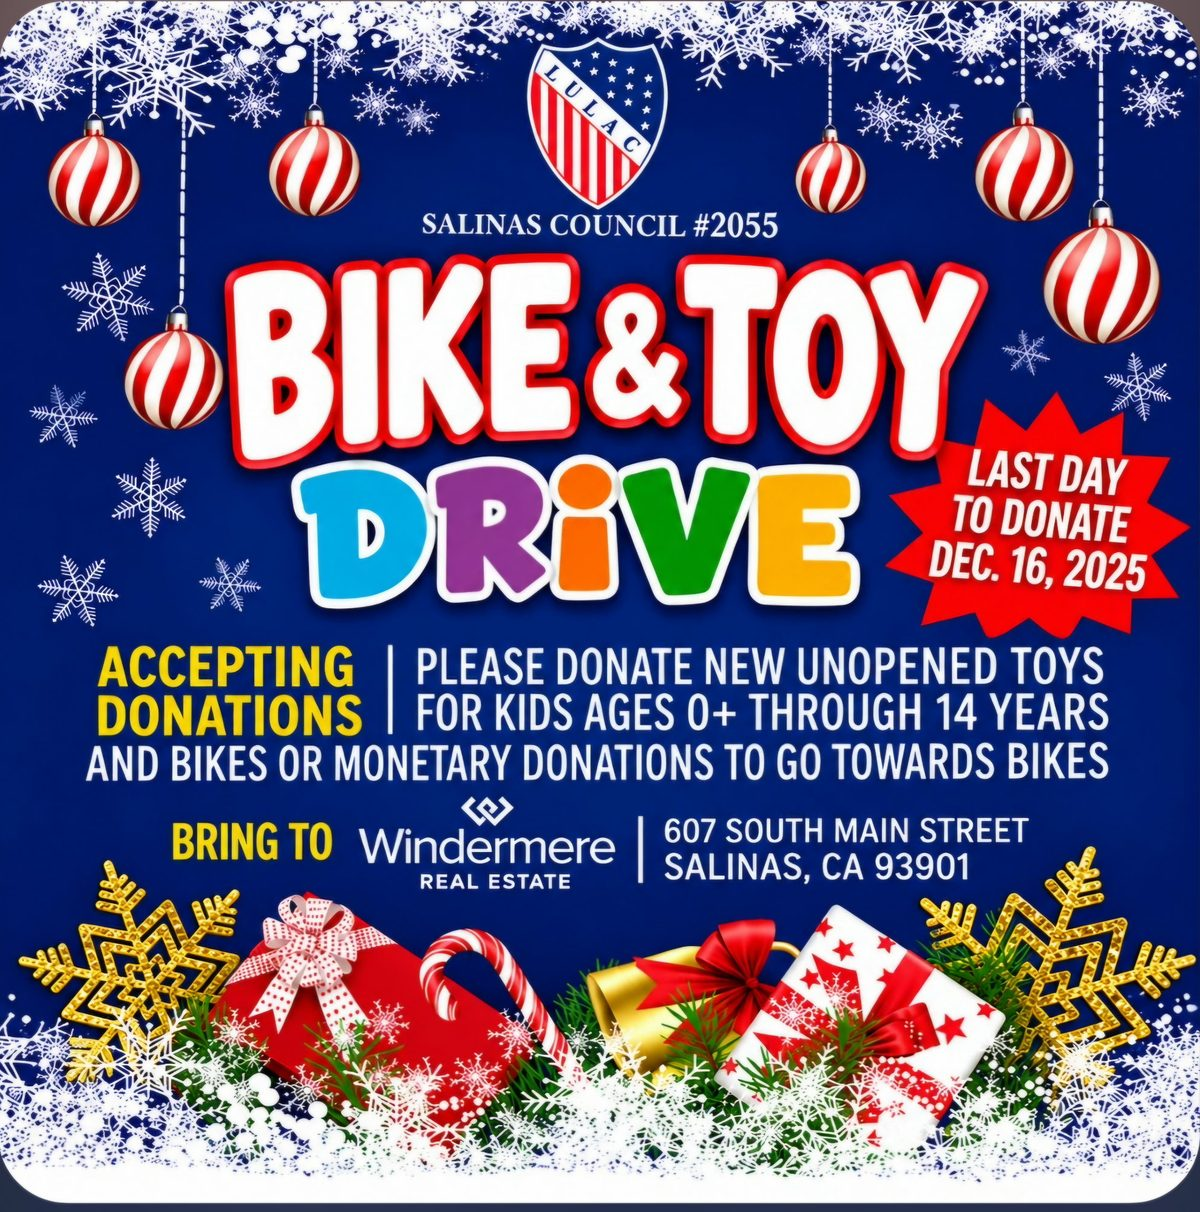
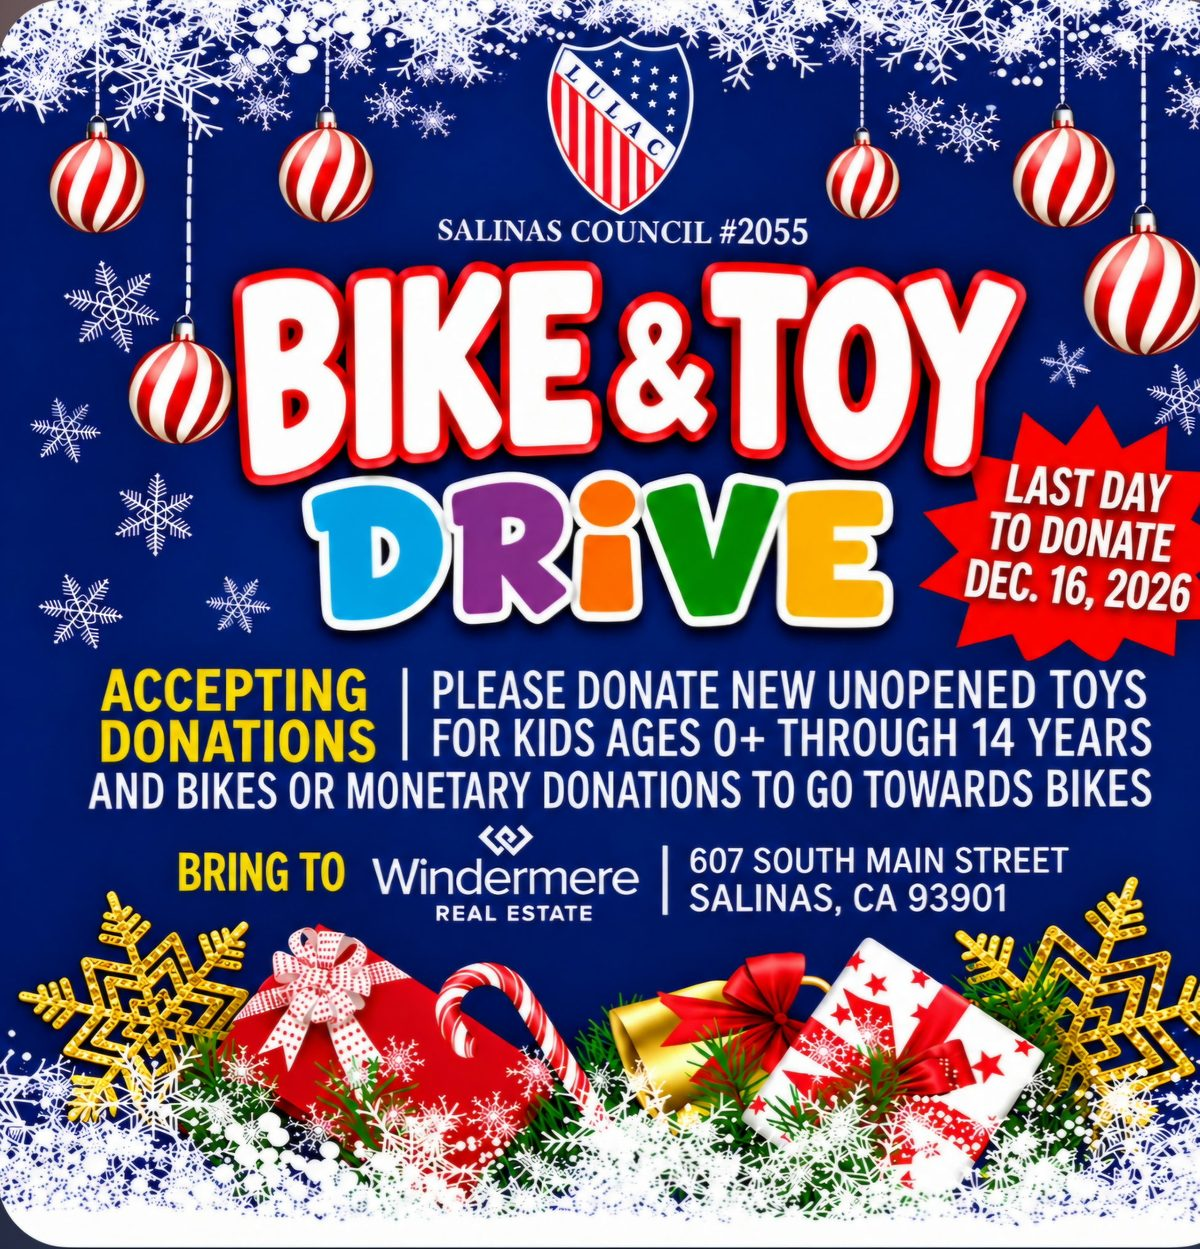
Swap in corrected Bike & Toy Drive flyer (Dec 16, 2026) (#9)
The previous flyer carried last year's date. Page text, alt text and
llms.txt now state the full deadline: Wednesday, December 16, 2026.

Claude-Session: https://claude.ai/code/session_01JpBd4Furhc6Kmx85zjQqVT

diff --git a/bike-toy-drive-2026.html b/bike-toy-drive-2026.html
@@ -15,7 +15,7 @@
   <meta property="og:image" content="https://lulacsalinas2055.org/assets/img/og-bike-toy-drive-2026.jpg">
   <meta property="og:image:width" content="1200">
   <meta property="og:image:height" content="630">
-  <meta property="og:image:alt" content="Salinas LULAC Council #2055 Bike &amp; Toy Drive with SCESD. Give by December 16.">
+  <meta property="og:image:alt" content="Salinas LULAC Council #2055 Bike &amp; Toy Drive with SCESD. Give by December 16, 2026.">
   <meta name="twitter:card" content="summary_large_image">
   <meta name="theme-color" content="#0b2577">
   <link rel="icon" href="assets/img/lulac-logo.png" type="image/png">
@@ -91,7 +91,7 @@
 <section class="page-head"><div class="container">
   <span class="label">Holiday drive</span>
   <h1>Bike &amp; Toy Drive 2026</h1>
-  <p>Council #2055 is teaming up with the Salinas City Elementary School District (SCESD) to get bikes and toys to Salinas kids this holiday season. Last day to donate is December 16.</p>
+  <p>Council #2055 is teaming up with the Salinas City Elementary School District (SCESD) to get bikes and toys to Salinas kids this holiday season. Last day to donate is Wednesday, December 16, 2026.</p>
 </div></section>
 
 <section class="section" aria-labelledby="bikeTitle"><div class="container">
@@ -101,11 +101,11 @@
       <dl class="dl-grid">
         <div><dt>What to give</dt><dd>New, unopened toys for kids from newborn through 14 years old. Bikes, or money toward bikes.</dd></div>
         <div><dt>Where</dt><dd>Windermere Real Estate, 607 South Main Street, Salinas, CA 93901.</dd></div>
-        <div><dt>Last day</dt><dd>December 16.</dd></div>
+        <div><dt>Last day</dt><dd>Wednesday, December 16, 2026.</dd></div>
         <div><dt>Questions</dt><dd>Call or text Chris at <a href="tel:+18312069089">831-206-9089</a>.</dd></div>
       </dl>
     </div>
-    <img src="assets/img/bike-toy-drive-2026-flyer.jpg" width="1200" height="1212" alt="Bike and Toy Drive flyer from Salinas Council #2055: accepting donations of new unopened toys for kids ages 0 through 14, and bikes or monetary donations toward bikes. Bring to Windermere Real Estate, 607 South Main Street, Salinas, CA 93901." >
+    <img src="assets/img/bike-toy-drive-2026-flyer.jpg" width="1200" height="1249" alt="Bike and Toy Drive flyer from Salinas Council #2055: accepting donations of new unopened toys for kids ages 0 through 14, and bikes or monetary donations toward bikes. Last day to donate December 16, 2026. Bring to Windermere Real Estate, 607 South Main Street, Salinas, CA 93901." >
   </div>
 </div></section>
 
